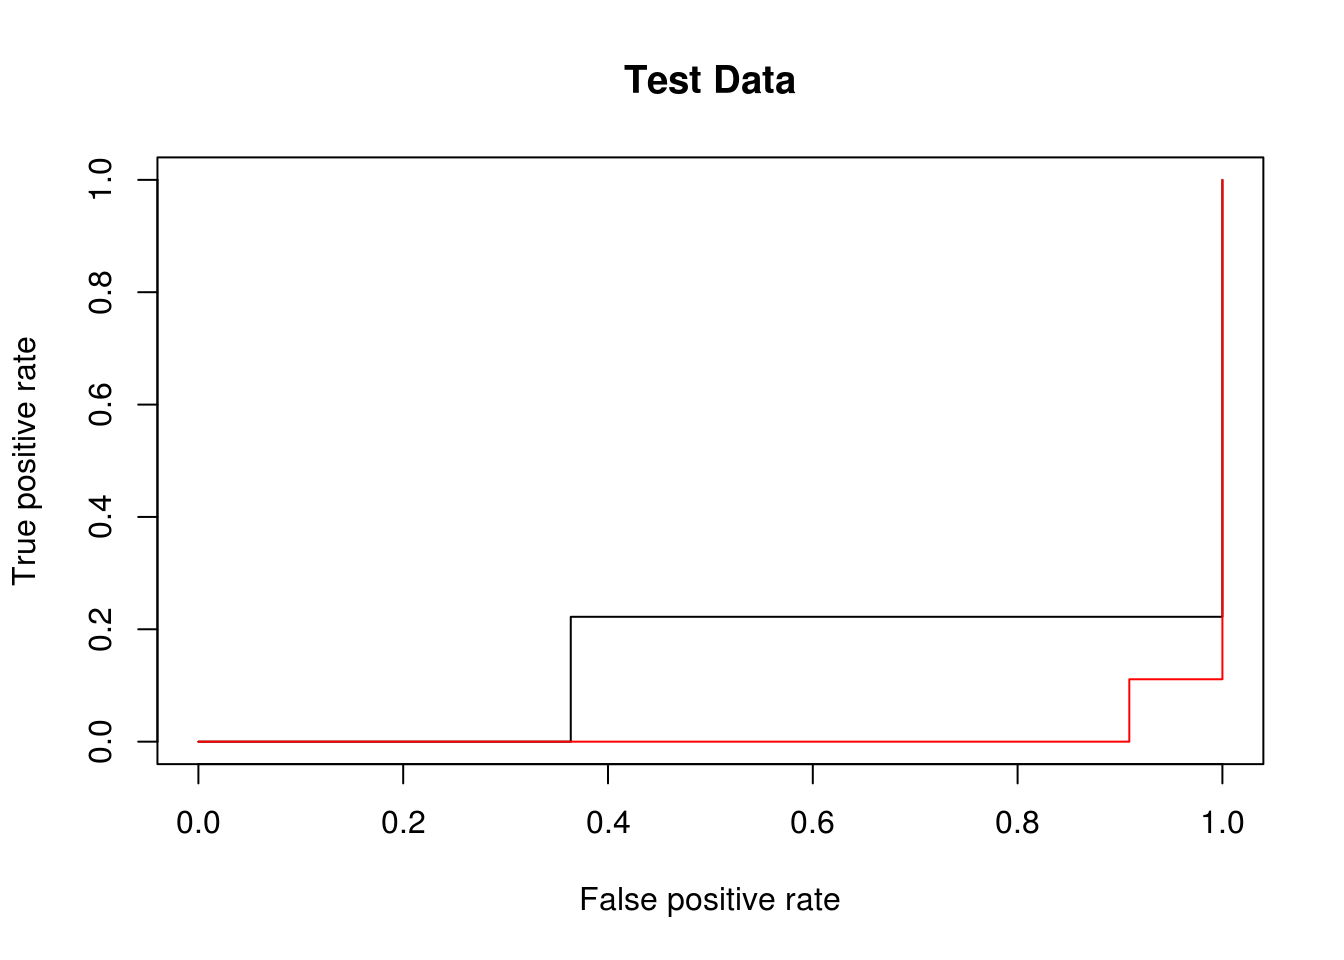
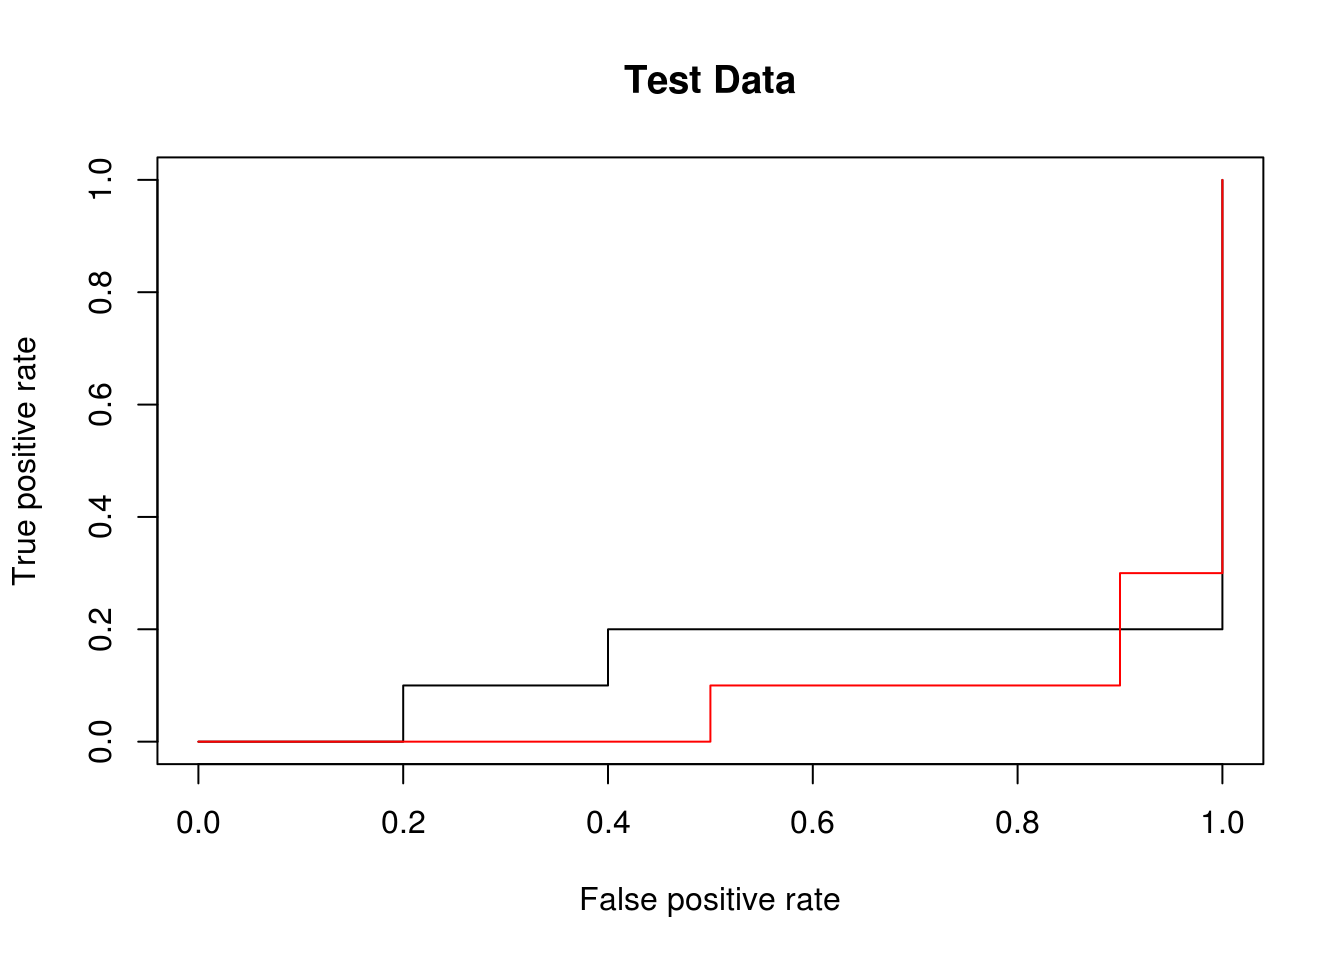
Update the book

diff --git a/support-vector-machines.html b/support-vector-machines.html
@@ -25,7 +25,7 @@
 <meta name="author" content="Jeffrey Limbacher">
 
 
-<meta name="date" content="2018-01-26">
+<meta name="date" content="2018-01-28">
 
   <meta name="viewport" content="width=device-width, initial-scale=1">
   <meta name="apple-mobile-web-app-capable" content="yes">
@@ -227,13 +227,13 @@ yrev &lt;-<span class="st"> </span>y[<span class="kw">length</span>(y)<span clas
 <div class="sourceCode"><pre class="sourceCode r"><code class="sourceCode r">x&lt;-<span class="kw">sort</span>(<span class="kw">rnorm</span>(<span class="dv">100</span>,<span class="dv">1</span>,<span class="dv">2</span>))
 y&lt;-<span class="kw">rnorm</span>(<span class="dv">100</span>)
 f &lt;-<span class="st"> </span><span class="cf">function</span>(x) <span class="fl">1.5</span><span class="op">*</span>(x)<span class="op">*</span>(x<span class="op">-</span><span class="dv">1</span>)<span class="op">*</span>(x<span class="op">-</span><span class="dv">3</span>)
-labs&lt;-<span class="kw">factor</span>(<span class="kw">ifelse</span>(y<span class="op">&gt;</span><span class="kw">f</span>(x),<span class="dv">0</span>,<span class="dv">1</span>))
+labs&lt;-<span class="kw">factor</span>(<span class="kw">ifelse</span>(y<span class="op">&gt;</span><span class="kw">f</span>(x),<span class="st">&quot;black&quot;</span>,<span class="st">&quot;red&quot;</span>))
 <span class="kw">plot</span>(x,y,<span class="dt">col=</span>labs)
 <span class="kw">lines</span>(x,<span class="kw">f</span>(x))</code></pre></div>
 <p><img src="ISLR-exercises_files/figure-html/unnamed-chunk-255-1.png" width="672" /> Now to classify with SVM.</p>
 <div class="sourceCode"><pre class="sourceCode r"><code class="sourceCode r"><span class="kw">library</span>(e1071)
-train&lt;-<span class="kw">sample.int</span>(<span class="dv">100</span>,<span class="dv">80</span>)
 <span class="kw">set.seed</span>(<span class="dv">1</span>)
+train&lt;-<span class="kw">sample.int</span>(<span class="dv">100</span>,<span class="dv">80</span>)
 dat &lt;-<span class="st"> </span><span class="kw">data.frame</span>(x,labs)
 (poly.tune&lt;-<span class="kw">tune</span>(svm,labs<span class="op">~</span>.,<span class="dt">data=</span>dat[train,],<span class="dt">kernel=</span><span class="st">&quot;polynomial&quot;</span>,<span class="dt">ranges=</span><span class="kw">list</span>(<span class="dt">d=</span><span class="dv">1</span><span class="op">:</span><span class="dv">5</span>,<span class="dt">cost=</span><span class="kw">c</span>(.<span class="dv">001</span>,.<span class="dv">01</span>,.<span class="dv">1</span>,<span class="dv">1</span>,<span class="dv">10</span>))))</code></pre></div>
 <pre><code>## 
@@ -243,10 +243,11 @@ dat &lt;-<span class="st"> </span><span class="kw">data.frame</span>(x,labs)
 ## 
 ## - best parameters:
 ##  d cost
-##  3   10
+##  3    1
 ## 
-## - best performance: 0.1625</code></pre>
-<div class="sourceCode"><pre class="sourceCode r"><code class="sourceCode r">(exp.tune &lt;-<span class="kw">tune</span>(svm,labs<span class="op">~</span>.,<span class="dt">data=</span>dat[train,],<span class="dt">kernel=</span><span class="st">&quot;radial&quot;</span>,<span class="dt">ranges=</span><span class="kw">list</span>(<span class="dt">gamma=</span><span class="kw">c</span>(.<span class="dv">01</span>,.<span class="dv">05</span>,.<span class="dv">1</span>,.<span class="dv">5</span>,<span class="dv">1</span>,<span class="dv">5</span>),<span class="dt">cost=</span><span class="kw">c</span>(.<span class="dv">001</span>,.<span class="dv">01</span>,.<span class="dv">1</span>,<span class="dv">10</span>))))</code></pre></div>
+## - best performance: 0.175</code></pre>
+<div class="sourceCode"><pre class="sourceCode r"><code class="sourceCode r"><span class="kw">set.seed</span>(<span class="dv">1</span>)
+(exp.tune &lt;-<span class="kw">tune</span>(svm,labs<span class="op">~</span>.,<span class="dt">data=</span>dat[train,],<span class="dt">kernel=</span><span class="st">&quot;radial&quot;</span>,<span class="dt">ranges=</span><span class="kw">list</span>(<span class="dt">gamma=</span><span class="kw">c</span>(.<span class="dv">01</span>,.<span class="dv">05</span>,.<span class="dv">1</span>,.<span class="dv">5</span>,<span class="dv">1</span>,<span class="dv">5</span>),<span class="dt">cost=</span><span class="kw">c</span>(.<span class="dv">001</span>,.<span class="dv">01</span>,.<span class="dv">1</span>,<span class="dv">10</span>))))</code></pre></div>
 <pre><code>## 
 ## Parameter tuning of &#39;svm&#39;:
 ## 
@@ -256,7 +257,7 @@ dat &lt;-<span class="st"> </span><span class="kw">data.frame</span>(x,labs)
 ##  gamma cost
 ##      1   10
 ## 
-## - best performance: 0.1875</code></pre>
+## - best performance: 0.15</code></pre>
 <p>Now we test the best poly versus the best radial on the test set.</p>
 <div class="sourceCode"><pre class="sourceCode r"><code class="sourceCode r">poly.mod &lt;-<span class="st"> </span><span class="kw">svm</span>(labs<span class="op">~</span>.,<span class="dt">data=</span>dat[train,],<span class="dt">kernel=</span><span class="st">&quot;polynomial&quot;</span>,<span class="dt">d=</span>poly.tune<span class="op">$</span>best.parameters<span class="op">$</span>d,<span class="dt">cost=</span>poly.tune<span class="op">$</span>best.parameters<span class="op">$</span>cost)
 exp.mod &lt;-<span class="st"> </span><span class="kw">svm</span>(labs<span class="op">~</span>.,<span class="dt">data=</span>dat[train,],<span class="dt">kernel=</span><span class="st">&quot;radial&quot;</span>,<span class="dt">gamma=</span>exp.tune<span class="op">$</span>best.parameters<span class="op">$</span>gamma,<span class="dt">cost=</span>exp.tune<span class="op">$</span>best.parameters<span class="op">$</span>cost)
@@ -274,22 +275,61 @@ exp.mod &lt;-<span class="st"> </span><span class="kw">svm</span>(labs<span clas
   <span class="kw">plot</span>(perf,...)
 }
 fitted=<span class="kw">attributes</span>(<span class="kw">predict</span>(poly.mod,dat[<span class="op">-</span>train,],<span class="dt">decision.values=</span>T))<span class="op">$</span>decision.values
-<span class="kw">rocplot</span>(fitted,dat[<span class="op">-</span>train,<span class="st">&quot;labs&quot;</span>],<span class="dt">main=</span><span class="st">&quot;Test Data&quot;</span>)
+<span class="kw">rocplot</span>(<span class="op">-</span>fitted,dat[<span class="op">-</span>train,<span class="st">&quot;labs&quot;</span>],<span class="dt">main=</span><span class="st">&quot;Test Data&quot;</span>) <span class="co">#for some reason, I have to make the </span>
+<span class="co">#fitted values negative for the ROC curve to display correctly.</span>
 fitted=<span class="kw">attributes</span>(<span class="kw">predict</span>(exp.mod,dat[<span class="op">-</span>train,],<span class="dt">decision.values=</span>T))<span class="op">$</span>decision.values
-<span class="kw">rocplot</span>(fitted,dat[<span class="op">-</span>train,<span class="st">&quot;labs&quot;</span>],<span class="dt">add=</span>T,<span class="dt">col=</span><span class="st">&quot;red&quot;</span>)</code></pre></div>
-<p><img src="ISLR-exercises_files/figure-html/unnamed-chunk-258-1.png" width="672" /></p>
+<span class="kw">rocplot</span>(<span class="op">-</span>fitted,dat[<span class="op">-</span>train,<span class="st">&quot;labs&quot;</span>],<span class="dt">add=</span>T,<span class="dt">col=</span><span class="st">&quot;red&quot;</span>)</code></pre></div>
+<p><img src="ISLR-exercises_files/figure-html/unnamed-chunk-258-1.png" width="672" /> The ROC curve tells us that the radial kernel works best. The tables below show how the final models classified. They ended up performing just as well as each other on the data.</p>
 <div class="sourceCode"><pre class="sourceCode r"><code class="sourceCode r">poly.fit=<span class="kw">predict</span>(poly.mod,dat[<span class="op">-</span>train,])
 <span class="kw">table</span>(poly.fit,dat[<span class="op">-</span>train,]<span class="op">$</span>labs)</code></pre></div>
 <pre><code>##         
-## poly.fit  0  1
-##        0 10  2
-##        1  1  7</code></pre>
+## poly.fit black red
+##    black     9   2
+##    red       1   8</code></pre>
 <div class="sourceCode"><pre class="sourceCode r"><code class="sourceCode r">exp.fit=<span class="kw">predict</span>(poly.mod,dat[<span class="op">-</span>train,])
 <span class="kw">table</span>(exp.fit,dat[<span class="op">-</span>train,]<span class="op">$</span>labs)</code></pre></div>
 <pre><code>##        
-## exp.fit  0  1
-##       0 10  2
-##       1  1  7</code></pre></li>
+## exp.fit black red
+##   black     9   2
+##   red       1   8</code></pre></li>
+<li><ol style="list-style-type: lower-alpha">
+<li>I will jus copy their example.</li>
+</ol>
+<div class="sourceCode"><pre class="sourceCode r"><code class="sourceCode r"><span class="kw">set.seed</span>(<span class="dv">92</span>)
+x1&lt;-<span class="kw">runif</span>(<span class="dv">500</span>)<span class="op">-</span><span class="fl">0.5</span>
+x2&lt;-<span class="kw">runif</span>(<span class="dv">500</span>)<span class="op">-</span><span class="fl">0.5</span>
+y&lt;-<span class="dv">1</span><span class="op">*</span>(x1<span class="op">^</span><span class="dv">2</span><span class="op">-</span>x2<span class="op">^</span><span class="dv">2</span> <span class="op">&gt;</span><span class="st"> </span><span class="dv">0</span>)</code></pre></div>
+<ol start="2" style="list-style-type: lower-alpha">
+<li></li>
+</ol>
+<div class="sourceCode"><pre class="sourceCode r"><code class="sourceCode r"><span class="kw">plot</span>(x1,x2,<span class="dt">col=</span>y<span class="op">+</span><span class="dv">1</span>)</code></pre></div>
+<img src="ISLR-exercises_files/figure-html/unnamed-chunk-262-1.png" width="672" />
+<ol start="3" style="list-style-type: lower-alpha">
+<li></li>
+</ol>
+<div class="sourceCode"><pre class="sourceCode r"><code class="sourceCode r">log.mod &lt;-<span class="st"> </span><span class="kw">glm</span>(y <span class="op">~</span><span class="st"> </span>x1<span class="op">+</span>x2,<span class="dt">family=</span>binomial)</code></pre></div>
+<ol start="4" style="list-style-type: lower-alpha">
+<li></li>
+</ol>
+<div class="sourceCode"><pre class="sourceCode r"><code class="sourceCode r">y.pred&lt;-<span class="kw">predict</span>(log.mod,<span class="dt">type=</span><span class="st">&quot;response&quot;</span>)
+y.pred&lt;-<span class="dv">1</span><span class="op">*</span>(y.pred<span class="op">&gt;</span>.<span class="dv">5</span>)
+<span class="kw">plot</span>(x1,x2,<span class="dt">col=</span>y.pred<span class="op">+</span><span class="dv">1</span>)</code></pre></div>
+<p><img src="ISLR-exercises_files/figure-html/unnamed-chunk-264-1.png" width="672" /> Note that a single value was predicted to be 0.</p>
+<div class="sourceCode"><pre class="sourceCode r"><code class="sourceCode r"><span class="kw">any</span>(<span class="kw">predict</span>(log.mod,<span class="dt">type=</span><span class="st">&quot;response&quot;</span>)<span class="op">&lt;</span>.<span class="dv">5</span>)</code></pre></div>
+<pre><code>## [1] TRUE</code></pre>
+<ol start="5" style="list-style-type: lower-alpha">
+<li></li>
+</ol>
+<div class="sourceCode"><pre class="sourceCode r"><code class="sourceCode r">log.nl.mod &lt;-<span class="st"> </span><span class="kw">glm</span>(y <span class="op">~</span><span class="st"> </span><span class="kw">poly</span>(x1,<span class="dt">d=</span><span class="dv">2</span>)<span class="op">*</span><span class="kw">poly</span>(x2,<span class="dt">d=</span><span class="dv">2</span>),<span class="dt">family=</span>binomial)</code></pre></div>
+<pre><code>## Warning: glm.fit: algorithm did not converge</code></pre>
+<pre><code>## Warning: glm.fit: fitted probabilities numerically 0 or 1 occurred</code></pre>
+<ol start="6" style="list-style-type: lower-alpha">
+<li></li>
+</ol>
+<div class="sourceCode"><pre class="sourceCode r"><code class="sourceCode r">y.pred&lt;-<span class="kw">predict</span>(log.nl.mod,<span class="dt">type=</span><span class="st">&quot;response&quot;</span>)
+y.pred&lt;-<span class="dv">1</span><span class="op">*</span>(y.pred<span class="op">&gt;</span>.<span class="dv">5</span>)
+<span class="kw">plot</span>(x1,x2,<span class="dt">col=</span>y.pred<span class="op">+</span><span class="dv">1</span>)</code></pre></div>
+<p><img src="ISLR-exercises_files/figure-html/unnamed-chunk-267-1.png" width="672" /> Looks better, but there is still misclassification.</p></li>
 </ol>
 
 </div>

diff --git a/index.html b/index.html
@@ -25,7 +25,7 @@
 <meta name="author" content="Jeffrey Limbacher">
 
 
-<meta name="date" content="2018-01-26">
+<meta name="date" content="2018-01-28">
 
   <meta name="viewport" content="width=device-width, initial-scale=1">
   <meta name="apple-mobile-web-app-capable" content="yes">
@@ -135,7 +135,7 @@ code > span.in { color: #60a0b0; font-weight: bold; font-style: italic; } /* Inf
 <div id="header">
 <h1 class="title">Jeffrey’s Answers to the ISLR Exercises</h1>
 <h4 class="author"><em>Jeffrey Limbacher</em></h4>
-<h4 class="date"><em>2018-01-26</em></h4>
+<h4 class="date"><em>2018-01-28</em></h4>
 </div>
 <div id="introduction" class="section level1">
 <h1><span class="header-section-number">Chapter 1</span> Introduction</h1>

diff --git a/chap2.html b/chap2.html
@@ -25,7 +25,7 @@
 <meta name="author" content="Jeffrey Limbacher">
 
 
-<meta name="date" content="2018-01-26">
+<meta name="date" content="2018-01-28">
 
   <meta name="viewport" content="width=device-width, initial-scale=1">
   <meta name="apple-mobile-web-app-capable" content="yes">

diff --git a/chap3.html b/chap3.html
@@ -25,7 +25,7 @@
 <meta name="author" content="Jeffrey Limbacher">
 
 
-<meta name="date" content="2018-01-26">
+<meta name="date" content="2018-01-28">
 
   <meta name="viewport" content="width=device-width, initial-scale=1">
   <meta name="apple-mobile-web-app-capable" content="yes">

diff --git a/chap4.html b/chap4.html
@@ -25,7 +25,7 @@
 <meta name="author" content="Jeffrey Limbacher">
 
 
-<meta name="date" content="2018-01-26">
+<meta name="date" content="2018-01-28">
 
   <meta name="viewport" content="width=device-width, initial-scale=1">
   <meta name="apple-mobile-web-app-capable" content="yes">

diff --git a/chap5.html b/chap5.html
@@ -25,7 +25,7 @@
 <meta name="author" content="Jeffrey Limbacher">
 
 
-<meta name="date" content="2018-01-26">
+<meta name="date" content="2018-01-28">
 
   <meta name="viewport" content="width=device-width, initial-scale=1">
   <meta name="apple-mobile-web-app-capable" content="yes">

diff --git a/chap6.html b/chap6.html
@@ -25,7 +25,7 @@
 <meta name="author" content="Jeffrey Limbacher">
 
 
-<meta name="date" content="2018-01-26">
+<meta name="date" content="2018-01-28">
 
   <meta name="viewport" content="width=device-width, initial-scale=1">
   <meta name="apple-mobile-web-app-capable" content="yes">

diff --git a/chap7.html b/chap7.html
@@ -25,7 +25,7 @@
 <meta name="author" content="Jeffrey Limbacher">
 
 
-<meta name="date" content="2018-01-26">
+<meta name="date" content="2018-01-28">
 
   <meta name="viewport" content="width=device-width, initial-scale=1">
   <meta name="apple-mobile-web-app-capable" content="yes">

diff --git a/chap8.html b/chap8.html
@@ -25,7 +25,7 @@
 <meta name="author" content="Jeffrey Limbacher">
 
 
-<meta name="date" content="2018-01-26">
+<meta name="date" content="2018-01-28">
 
   <meta name="viewport" content="width=device-width, initial-scale=1">
   <meta name="apple-mobile-web-app-capable" content="yes">
